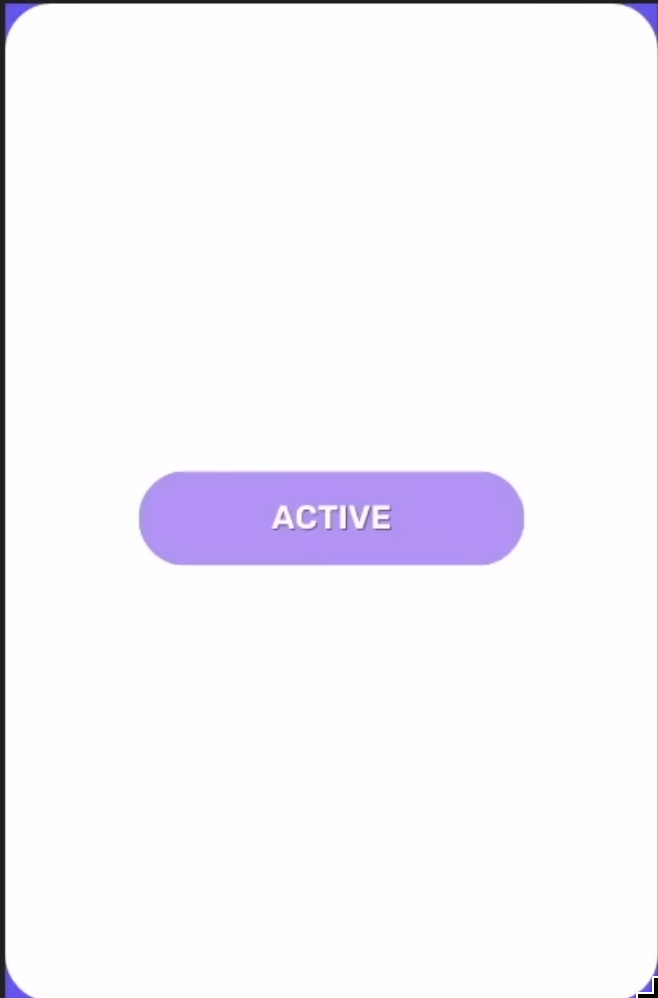
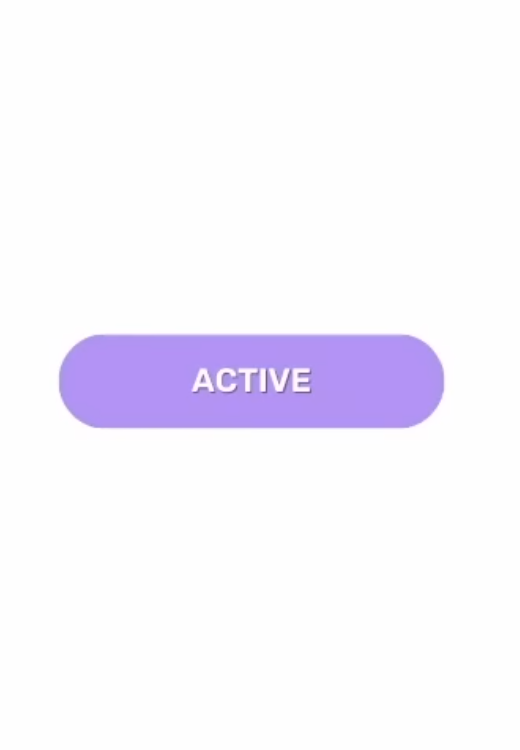
Completed_the_Project_October4

Changed region(s): [[0.0923, 0.4293, 0.8615, 0.5827], [0.0, 0.0, 1.0, 1.0]]

diff --git a/main.py b/main.py
@@ -15,14 +15,17 @@ firebase_admin.initialize_app(cred,{
 
 })
 cap = cv2.VideoCapture(0)
+if not cap.isOpened():
+    raise RuntimeError("Could not open webcam at camera index 0")
+
 cap.set(3, 640)
 cap.set(4, 480)
 
-background = cv2.imread('resources/background.png')
+background = cv2.imread('resources/background_clean.png')
 
 ## importing the modeimages into a list
 foldermodepath = 'resources/Modes'   # making the path changable
-modepathlist = sorted(os.listdir(foldermodepath))  # listing the directories
+modepathlist = sorted(path for path in os.listdir(foldermodepath) if path.lower().endswith('.png'))
 imagemodelist = []
 
 for path in modepathlist:
@@ -163,29 +166,30 @@ while True:
         )
 
     # Webcam
-    img = cv2.resize(img, (805, 605))
-    background[290:290+605, 44:44+805] = img
+    img = cv2.resize(img, (800, 465))
+    background[224:224+465, 60:60+800] = img
 
-    # Mode image - 10% bigger
-    modeImg = cv2.resize(imagemodelist[ModeType], (568, 990))
-    background[60:60+990, 880:880+568] = modeImg
+    # Mode image (cropped 5px to drop the card's dark edge, fitted inside the phone screen)
+    modeImg = cv2.resize(imagemodelist[ModeType][5:-5, 5:-5], (540, 780))
+    mode_x = 972
+    mode_y = 110
+    background[mode_y:mode_y+780, mode_x:mode_x+540] = modeImg
 
-    if 60<frame_count<90:
-        ModeType=2
-        modeImg = cv2.resize(imagemodelist[ModeType], (568, 990))
-        background[60:60+990, 880:880+568] = modeImg
+    if 60 < frame_count < 90:
+        ModeType = 2
+        modeImg = cv2.resize(imagemodelist[ModeType][5:-5, 5:-5], (540, 780))
+        background[mode_y:mode_y+780, mode_x:mode_x+540] = modeImg
 
+    if totalAttendance is not None and counter <= 10 and 0 < frame_count < 60:
+        cv2.putText(background, str(studentinfo['total_attendance']),(1050,212), cv2.FONT_HERSHEY_COMPLEX, 1.2, (0,0,0), 1)
+        (name_w, _), _ = cv2.getTextSize(str(studentinfo['name']), cv2.FONT_HERSHEY_COMPLEX, 1, 1)
+        cv2.putText(background, str(studentinfo['name']),(1242 - name_w // 2,612), cv2.FONT_HERSHEY_COMPLEX, 1, (0,0,0), 1)
+        cv2.putText(background, str(studentinfo['major']),(1228,742), cv2.FONT_HERSHEY_COMPLEX, 0.5, (0,0,0), 1)
+        cv2.putText(background, str(id),(1228,672), cv2.FONT_HERSHEY_COMPLEX, 0.7, (0,0,0), 1)
+        cv2.putText(background, str(studentinfo['standing']),(1063,878), cv2.FONT_HERSHEY_COMPLEX, 0.7, (0,0,0), 1)
+        cv2.putText(background, str(studentinfo['year']),(1208,878), cv2.FONT_HERSHEY_COMPLEX, 0.7, (0,0,0), 1)
+        cv2.putText(background, str(studentinfo['starting_year']),(1312,878), cv2.FONT_HERSHEY_COMPLEX, 0.7, (0,0,0), 1)
 
-
-    # here we are 0verlaying the details 
-    if totalAttendance is not None and counter <=10 and 0<frame_count<60:
-        cv2.putText(background, str(studentinfo['total_attendance']),(955,190), cv2.FONT_HERSHEY_COMPLEX, 2, (0,0,0), 1)
-        cv2.putText(background, str(studentinfo['name']),(965,700), cv2.FONT_HERSHEY_COMPLEX, 2, (0,0,0), 1)
-        cv2.putText(background, str(studentinfo['major']),(1147,852), cv2.FONT_HERSHEY_COMPLEX, 0.5, (0,0,0), 1)
-        cv2.putText(background, str(id),(1147,765), cv2.FONT_HERSHEY_COMPLEX, 0.8, (0,0,0), 1)
-        cv2.putText(background, str(studentinfo['standing']),(1020,984), cv2.FONT_HERSHEY_COMPLEX, 2, (0,0,0), 1)
-        cv2.putText(background, str(studentinfo['year']),(1172,984), cv2.FONT_HERSHEY_COMPLEX, 2, (0,0,0), 1)
-        cv2.putText(background, str(studentinfo['starting_year']),(1300,976), cv2.FONT_HERSHEY_COMPLEX, 1.4, (0,0,0), 1)
     cv2.imshow("Face Attendance", background)
 
     # Press Q to exit and release the camera

diff --git a/tempCodeRunnerFile.py b/tempCodeRunnerFile.py
@@ -1,0 +1,9 @@
+if totalAttendance is not None and counter <=10 and 0<frame_count<60:
+        cv2.putText(background, str(studentinfo['total_attendance']),(955,190), cv2.FONT_HERSHEY_COMPLEX, 2, (0,0,0), 1)
+        cv2.putText(background, str(studentinfo['name']),(965,700), cv2.FONT_HERSHEY_COMPLEX, 2, (0,0,0), 1)
+        cv2.putText(background, str(studentinfo['major']),(1147,852), cv2.FONT_HERSHEY_COMPLEX, 0.5, (0,0,0), 1)
+        cv2.putText(background, str(id),(1147,765), cv2.FONT_HERSHEY_COMPLEX, 0.8, (0,0,0), 1)
+        cv2.putText(background, str(studentinfo['standing']),(1020,984), cv2.FONT_HERSHEY_COMPLEX, 2, (0,0,0), 1)
+        cv2.putText(background, str(studentinfo['year']),(1172,984), cv2.FONT_HERSHEY_COMPLEX, 2, (0,0,0), 1)
+        cv2.putText(background, str(studentinfo['starting_year']),(1300,976), cv2.FONT_HERSHEY_COMPLEX, 1.4, (0,0,0), 1)
+    cv2.imshow("Face Attendance", background)
